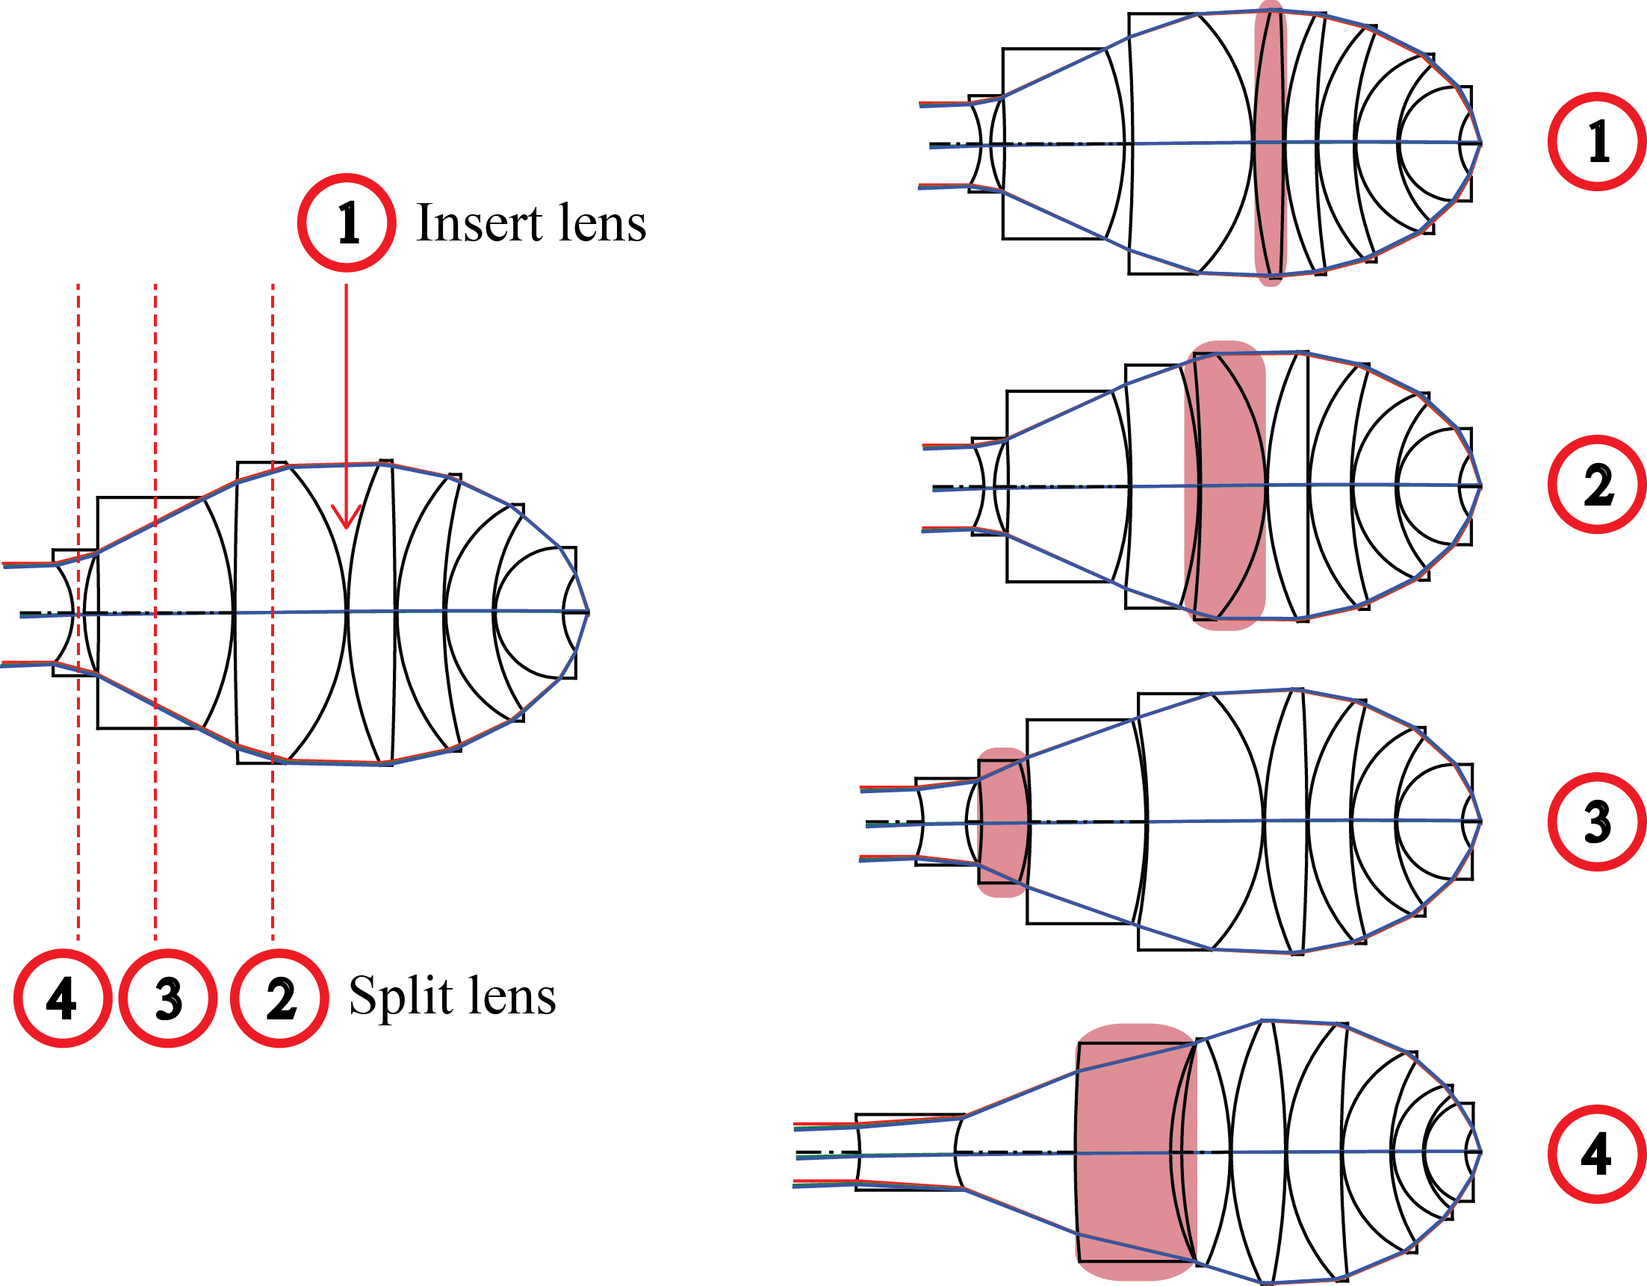
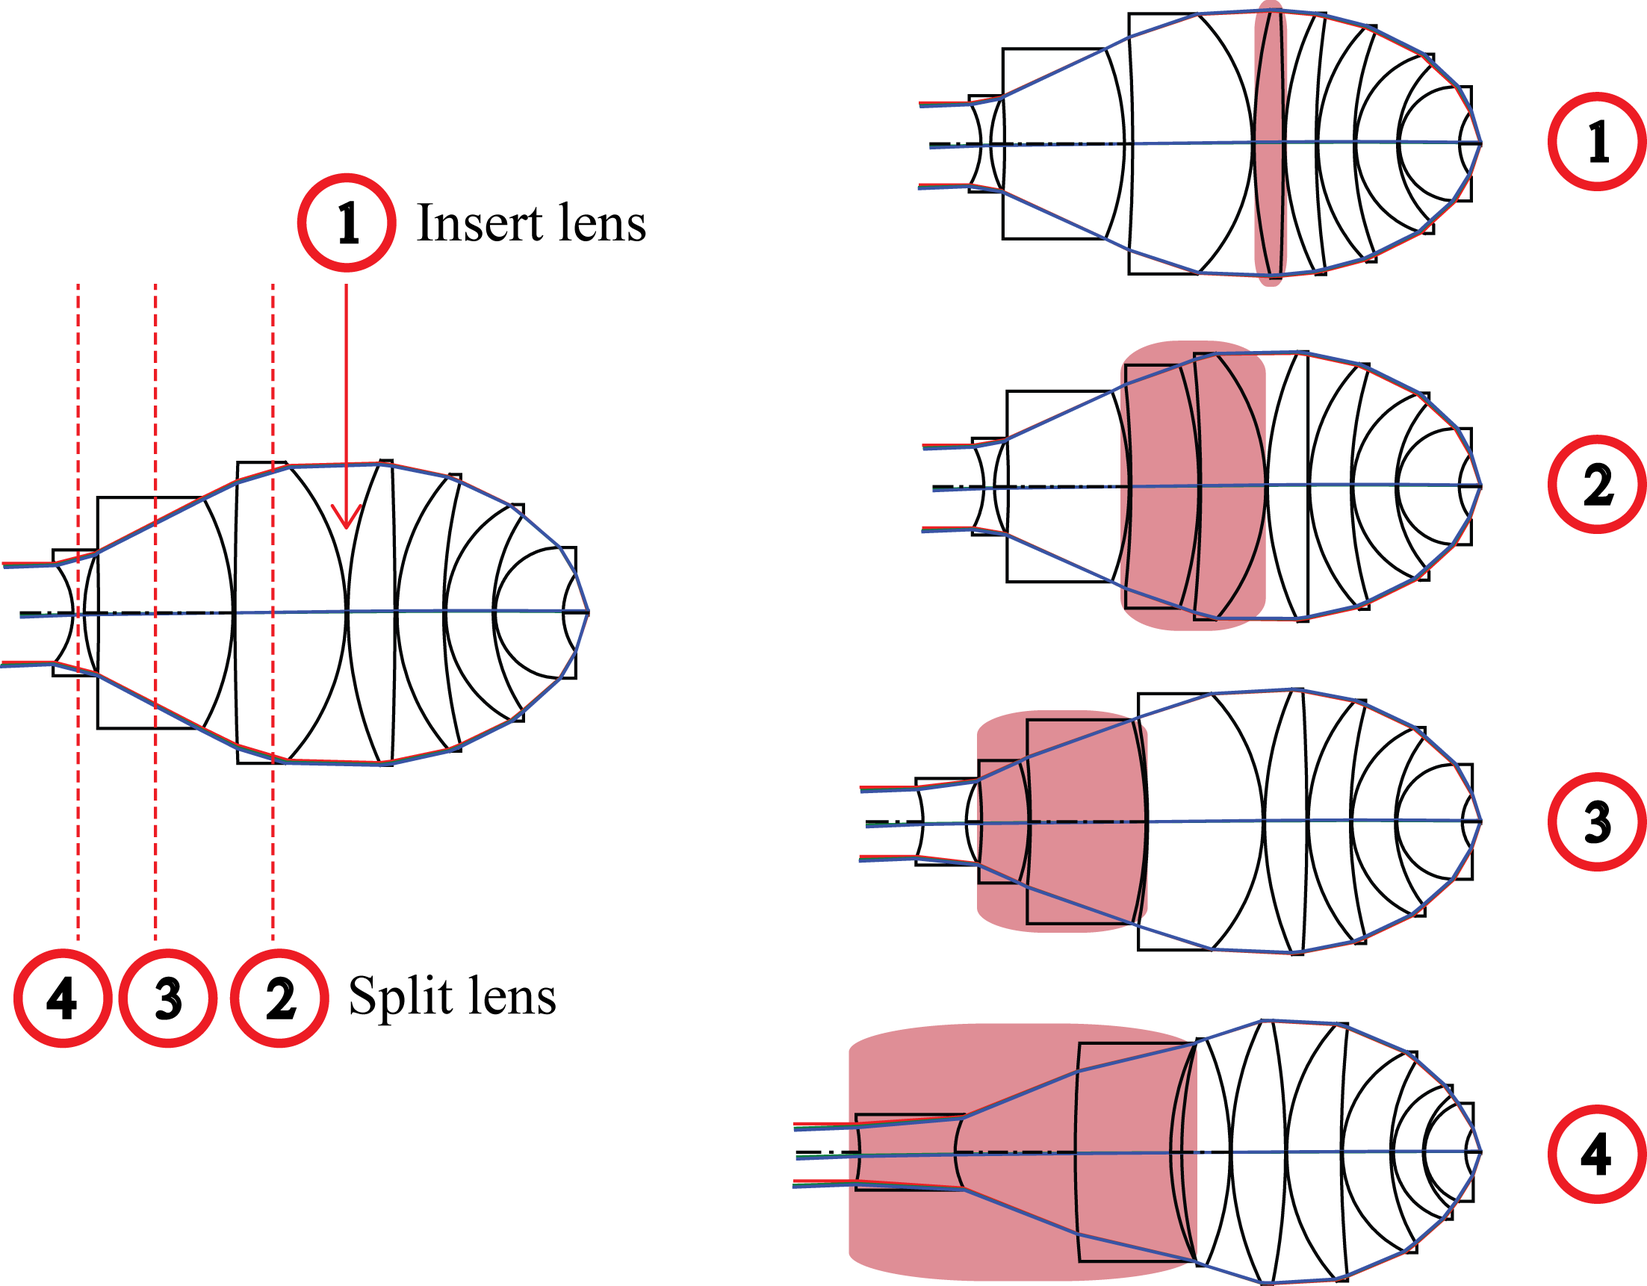
Updates from ShareLaTeX

diff --git a/chapter-4/chapter-4.tex b/chapter-4/chapter-4.tex
@@ -5,6 +5,11 @@
 \captionsetup{margin=1.5em}
 \captionsetup[table]{labelfont=bf}
 
+%%Newdefined commands
+%for circled number typing
+\newcommand*\circled[1]{\tikz[baseline=(char.base)]{
+            \node[shape=circle,draw,inner sep=0.5pt] (char) {#1};}}
+
 % The following annotation is customary for chapter which have already been
 % published as a paper.
 % \blfootnote{Parts of this chapter have been published in Annalen der Physik \textbf{324}, 289 (1906) \cite{LinWang2011}.}
@@ -187,7 +192,7 @@ Working together with a designer in Jena, we have chosen a UV microscope objecti
     Working distance (WD, mm) & 0.6\\ 
     Overall length (mm) & 25\\
     \midrule
-    RMS wave front error (m$\lambda$) & 48.5\\ 
+    RMS wave front error (m$\lambda$) & 49\\ 
     Strehl ratio at 0 mm & 0.976\\ 
     Strehl ratio at 0.1mm & 0.849\\
     \hline
@@ -320,19 +325,19 @@ We increased the NA of the microscope objective from 0.90 to 0.95. The rays stil
     \hline 
      Numerical aperture (NA) & 0.90 & 0.95\\ 
      \cmidrule{2-3}
-    RMS wavefront error (m$\lambda$) & 48.5 & 111  \\ 
+    RMS wavefront error (m$\lambda$) & 49 & 111  \\ 
     Strehl ratio at 0 mm & 0.976 & 0.833\\
     Strehl ratio at 0.1 mm & 0.849 & 0.386\\
     \hline
     \end{tabular}
 \end{table}
 
-With the separation of the system into different function groups, it is possible to understand the function of different part of the system, and provides insight when structural change is needed. From Figure \ref{fig: vollrathoriginal} we know that the rear and middle group mainly correct the spherical aberration. A reasonable strategy is then to introduce structural changes in these two groups, namely by adding or splitting elements in the rear or middle group of the system. Based on this insight, we chose four different positions in the rear and middle group to add or split element in a conventional way. The resulted system shapes are shown in Figure \ref{fig: vollrathNAtrad}. It is worth pointing out that with traditional approach, each operation only yields one solution. The performance of the resulting systems are listed in Table \ref{table: vollrathNAtrad}. From the table, we see that out of four, only one has a satisfactory performance \footnote{For satisfactory performance, the criteria is that the Strehl ratio is above 0.8 for all fields, and \colorbox{orange}{the wavefront RMS is below $\lambda/14$} \cite{patentvollrath}, for which the system is believed to be diffraction-limited.}. 
+With the separation of the system into different function groups, it is possible to understand the function of different part of the system, and provides insight when structural change is needed. From Figure \ref{fig: vollrathoriginal} we know that the rear and middle group mainly correct the spherical aberration. A reasonable strategy is then to introduce structural changes in these two groups, namely by adding or splitting elements in the rear or middle group of the system. Based on this insight, we chose four different positions in the rear and middle group to add or split element in a conventional way. The resulted system shapes are shown in Figure \ref{fig: vollrathNAtrad}. It is worth pointing out that with traditional approach, each operation only yields one solution. The performance of the resulting systems are listed in Table \ref{table: vollrathNAtrad}. From the table, we see that out of four, only one has a satisfactory performance \footnote{For satisfactory performance, the criteria is that the Strehl ratio is above 0.8 for all fields, and \colorbox{orange}{the wavefront RMS is below $\lambda/14$} \cite{patentvollrath}, for which the system is believed to be diffraction-limited.}. In Figure \ref{fig: vollrathNAtrad}, the inserted or split element is highlighted with shade. For operation \circled{1}, the insertion of the lens resulting an extra shell lens in the front group. It gives four new freedoms (two curvatures, one lens thickness, and an air space thickness) for optimization. However, the performance of the system is not improved to a satisfactory result. Operation \circled{2} splitting one of the lens elements in the middle group distributing its original power from one lens element to two lens elements. The same happened for operation \circled{3}. Both operations only produce slightly better results than operation \circle{1}, however, none of them is good. Splitting the lens element in the rear group in operation \circled{4} produces a different system shape compared to the other three and the original system. A reverse-bended element is created (second element from the left), and it forms a narrow air gap with the element to the right of it. This kind of air gap is effective for introducing high-order spherical aberrations, which balances the high-order spherical aberration introduced by other parts of the system \colorbox{orange}{reference needed}.
 
 \begin{figure}[h!]
     \centering
     \includegraphics[width=0.7\textwidth]{chapter-4/figures/Vollrath_NATradition.png}
-    \caption{Introducing structural change in the traditional way for system performance improvement.}
+    \caption{Introducing structural change in the traditional way for system performance improvement. Four operations have been executed on the NA 0.95 system resulting in four different results. The inserted or split element is highlighted with shade.}
     \label{fig: vollrathNAtrad}
 \end{figure}
 
@@ -360,116 +365,115 @@ With the separation of the system into different function groups, it is possible
 \end{table}
 
 
+Based on the same insight on where the change should be introduced in the system, we performed saddle point construction on the same operation positions as the traditional approach. Figure \ref{fig: VollrathSPCcaseNA} presents the results from saddle point construction scans. From four scans, a total number of eighteen solutions were obtained \footnote{\colorbox{orange}{an example of a scan will be given in the appendices}}. Besides the four solutions as same as the one obtained with traditional method, fourteen extra solutions were acquired. Their performances are listed in Table \ref{table: vollratSPCcaseNA}. Out of the eighteen solutions, nine reach satisfactory results. 
+
+\begin{figure}[h!]
+  \begin{adjustbox}{addcode={
+    \begin{minipage}{\width}}{
+    \captionsetup{margin=0em}
+    \caption{Eighteen solutions from four saddle point construction scans. The dashed line indicates constructing an air lens inside a lens element (equivalent to splitting lens). The solid line indicates constructing a glass element in the air space (equivalent to add lens). In comparison with Figure \ref{fig: vollrathNAtrad}, solution \textcircled{\scriptsize{1}}C, \textcircled{\scriptsize{2}}D, \textcircled{\scriptsize{3}}C, and \textcircled{\scriptsize{4}}D are the ones obtained with conventional approach.}\label{fig: VollrathSPCcaseNA}
+    \end{minipage}},rotate=90,center}
+    \includegraphics[width=\textheight]{chapter-4/figures/vollrathSPCcaseNA.png}
+  \end{adjustbox}
+\end{figure}
+
+\setlength{\arrayrulewidth}{.5mm}
+\setlength{\tabcolsep}{18pt}
+\renewcommand{\arraystretch}{1.2}
+\begin{table}[h!]
+    \centering
+    \captionsetup{justification=centering}
+    \caption{System performance for the systems shown in Figure \ref{fig: VollrathSPCcaseNA}}
+    \label{table: vollratSPCcaseNA}
+    \vspace{-1em}
+    % \hspace*{-10pt} %adjusting the position of the plot(table) !!!!
+    \begin{adjustbox}{max width=\textwidth, center}
+    \begin{tabular}{c c c c c c}
+    \hline 
+       & \textbf{1} & \textbf{2} & \textbf{3} & \textbf{4} & \\ 
+     \midrule
+    RMS WFR & 65 & 59 & 60 & 26 & \multirow{3}{*}{\textbf{A}} \\ 
+    SR(0) & 0.862 & 0.942 & 0.958 & 0.998\\
+    SR(0.1) & 0.829 & 0.807 & 0.808 & 0.945\\
+    \midrule
+    RMS WFR& 109 & 67 & 52 & 135 & \multirow{3}{*}{\textbf{B}} \\ 
+    SR(0) & 0.876 & 0.941 & 0.960 & 0.604\\
+    SR(0.1) & 0.378 & 0.756 & 0.847 & 0.319\\
+    \midrule
+    RMS WFR & 98 & 45 & 104 & 124 & \multirow{3}{*}{\textbf{C}} \\ 
+    SR(0) & 0.826 & 0.989 & 0.779 & 0.661\\
+    SR(0.1) & 0.505 & 0.874 & 0.540 & 0.371\\
+    \midrule
+    RMS WFR & 48 & 102 & 89 & 35 & \multirow{3}{*}{\textbf{D}} \\ 
+    SR(0) & 0.950 & 0.828 & 0.820 & 0.993\\
+    SR(0.1) & 0.859 & 0.444 & 0.625 & 0.894\\
+    \midrule
+    RMS WFR &  & 43 &  & 135 & \multirow{3}{*}{\textbf{E}} \\ 
+    SR(0) &  & 0.982 &  & 0.789\\
+    SR(0.1) &  & 0.853 &  & 0.251\\
+    \hline
+    \multicolumn{6}{c}{\textit{\footnotesize{RMS WFR = RMS wavefront error (m$\lambda$); SR(0) = Strehl ratio at 0 mm; SR(0.1) = Strehl ratio at 0.1 mm.}}}\\
+    % \vspace{-1em}
+    % \multicolumn{6}{c}{\textit{\footnotesize{SR(0) = Strehl ratio at 0 mm; SR(0.1) = Strehl ratio at 0.1 mm.}}}
+    \end{tabular}
+    \end{adjustbox}
+\end{table}
+
+Compared to traditional method, using saddle point methods find 4.5 times more systems with the same amount of operation. If we count the efficiency for finding good systems, traditional method is 25\%, and SPC is 50\%.
+
+A second structural change introduced is to increase the working distance of the original system, from 0.6 mm to 2.5 mm. 
+
+\begin{figure}[h!]
+    \centering
+    \includegraphics[width=0.6\textwidth]{chapter-4/figures/Vollrath_WD06TO25.png}
+    \caption{Change of the system shape after the increasing of the working distance from 0.6 mm to 2.5 mm.}
+    \label{fig: vollrathWD06to25}
+\end{figure}
+
+%table template
+\setlength{\arrayrulewidth}{.5mm}
+\setlength{\tabcolsep}{18pt}
+\renewcommand{\arraystretch}{1.2}
+\begin{table}[h!]
+    \centering
+    \captionsetup{justification=centering}
+    \caption{Change of the system performance with increasing working distance}
+    \label{table: WDchange}
+    \vspace{-1em}
+    \begin{tabular}{ c c c }
+    \hline 
+     Working distance (WD, mm) & 0.6 & 2.5\\ 
+     \cmidrule{2-3}
+    RMS wavefront error (m$\lambda$) & 49 & 135  \\ 
+    Strehl ratio at 0 mm & 0.976 & 0.254\\
+    Strehl ratio at 0.1 mm & 0.849 & 0.019\\
+    \hline
+    \end{tabular}
+\end{table}
+
+
+
+
+
+
+
+
+\subsection{How to do the scan}
+\begin{itemize}
+\item computation 4 point
+\item optimization enough loops
+\item choice of weigths and constraint
+\end{itemize}
+
+
 \section{Applying SPC to a lithographic object (extreme complex case)}
 
 
-%% We need an empty line before the quote environment to work around a bug in
-%% the lettrine package, from which the drop command is derived.
-\begin{quote}
-\texttt{\textbackslash documentclass\{dissertation\}}
-\end{quote}
-which loads the dissertation template. The template is based on the \LaTeX{} \texttt{book} document class and stored in \texttt{dissertation.cls}. The document class accepts several comma-separated options. By default, hyperlinks are shown in cyan, which is convenient when reading the dissertation on a computer, but can be expensive when printing. They can be turned black with the \texttt{print} option. This will also turn the headers dark gray instead of cyan. Moreover, it will add a 3~mm bleed around the page including crop marks. This will help the printer with the thumb indices, since they run right up to the page borders. Finally, the \texttt{nativefonts} option can be used to override the automatic font selection (see below).
+\section{conclusion}
 
-A dissertation is a big document, which makes it easy to miss warnings about the layout in the \LaTeX{} output. In order to locate problem areas, add the \texttt{draft} option to the \texttt{\textbackslash documentclass} line. This will display a vertical bar in the margins next to the paragraphs that require attention.
+The saddle point construction introduces a disruption for the optimization with a certain amount of control. Instead of starting randomly in the optimization landscape intending to find a different local minimum, with saddle point construction, we are able to start from some space that there will be a higher chance of converging to a different local minima. 
 
-The contents of the dissertation are included between the \texttt{\textbackslash begin\{document\}} and \texttt{\textbackslash end\{document\}} commands, and split into three parts by
-\begin{enumerate}
-\item\texttt{\textbackslash frontmatter}, which uses Roman numerals for the page numbers and is used for the title page and the table of contents;
-\item\texttt{\textbackslash mainmatter}, which uses Arabic numerals for the page numbers and is the style for the chapters;
-\item\texttt{\textbackslash appendix}, which uses letters for the chapter numbers, starting with `A'.
-\end{enumerate}
-The title page is defined in \texttt{title.tex} in the \texttt{title} folder and included verbatim with \texttt{\textbackslash include\{title/title\}},\footnote{Note that it is not necessary to specify the file extension.} (see below). Additionally, it is possible to include a preface, containing, for example, the acknowledgements. An example can be found in \texttt{preface.tex}. The table of contents is generated automatically with the \texttt{\textbackslash tableofcontents} command. Chapters are included after \texttt{\textbackslash mainmatter} and appendices after \texttt{\textbackslash appendix}. For example, \texttt{\textbackslash include\{chapter-1/chapter-1\}} includes \texttt{chapter-1.tex}, which contains this introduction.
-
-\section{Title Page}
-
-\dropcap{T}{he} title pages are defined in \texttt{title/title.tex}, which you will have to modify according to your needs. Note that these pages are subject to the requirements of the \emph{promotieregelement} and cannot be changed at will. Apart from the names and dates, most of the Dutch text is dictated literally.
-
-Since the thesis title and name of the author appear several times throughout the document (on the title page, but also in, \emph{e.g.}, the preface and cv), special commands are provided so they only have to be specified once. The title (and optional subtitle) can be specified with
-
-\begin{quote}
-\texttt{\textbackslash title[Optional subtitle]\{Title\}}
-\end{quote}
-The name of the author is specified with
-\begin{quote}
-\texttt{\textbackslash author\{First name\}\{Last name\}}
-\end{quote}
-Note that the first and last name are separate arguments, since they may be printed in different font shapes. The \texttt{\textbackslash title} and \texttt{\textbackslash author} commands also ensure that the title and author appear in the metadata of the final PDF.
-
-See \texttt{title/title.tex} for detailed documentation on the comment and layout of the title pages. Logos of institutes that have contributed financially to the dissertation may be included on reverse side of the title page. A few example logos can be found in the \texttt{title/logos} folder.
-
-\section{Chapters}
-
-\dropcap{E}{ach} chapter has its own file. For example, the \LaTeX{} source of this chapter can be found in \texttt{chapter-1.tex}. A chapter starts with the command
-
-\begin{quote}
-\texttt{\textbackslash chapter\{Chapter title\}}
-\end{quote}
-This starts a new page, prints the chapter number and title and adds a link in the table of contents. If the title is very long, it may be desirable to use a shorter version in the page headers and the table of contents. This can be achieved by specifying the short title in brackets:
-
-\begin{quote}
-\texttt{\textbackslash chapter[Short title]\{Very long title with many words which could not possibly fit on one line\}}
-\end{quote}
-Unnumbered chapters, such as the preface, can be created with \texttt{\textbackslash chapter*\{Chapter title\}}. Such a chapter will not show up in the table of contents or in the page header. To create a table of contents entry anyway, add
-\begin{quote}
-    \texttt{\textbackslash addcontentsline\{toc\}\{chapter\}\{Chapter title\}}
-\end{quote}
-after the \texttt{\textbackslash chapter} command. To print the chapter title in the page header, add
-\begin{quote}
-    \texttt{\textbackslash setheader\{Chapter title\}}
-\end{quote}
-
-If (parts of) the chapter have already been published elsewhere, it is customary to add a reference. This can be done with the special unnumbered footnote command \texttt{\textbackslash blfootnote}. For example,
-
-\begin{quote}
-\texttt{\textbackslash blfootnote\{Parts of this chapter have been published in Annalen der Physik \textbackslash textbf\{324\}, 289 (1906) \textbackslash cite \{Einstein1906\}.\}}
-\end{quote}
-generates the footnote at the beginning of this chapter. Because this footnote is unnumbered, the \texttt{hyperref} package may throw a warning, which safely be ignored.
-
-If multiple people have contributed significantly to this chapter, they can be lister with the \texttt{\textbackslash authors} command. This can be followed by a quotation using \texttt{\textbackslash epigraph} as shown above. Finally, it is customary for a dissertation to include an abstract for every chapter (except perhaps the introduction). This can be accomplished with the \texttt{abstract} environment. The abstract should be followed by \texttt{\textbackslash newpage} to start the chapter text on a new page.
-
-In a dissertation, each chapter has its own list of references. These can be generated with the special command \texttt{\textbackslash references\{dissertation\}} from \texttt{dissertation.bib} at the end of the chapter. Note that this means that you need to run a command like \texttt{bibtex chapter-1/chapter-1} for each chapter. The bibliography style is specified in \texttt{dissertation.bst}, which is a modified version of \texttt{apsrev4-1.bst} (from REVTeX) designed to also display the titles of referenced articles. The template will automatically generate clickable hyperlinks if a URL or DOI (digital object identifier) is present for the reference. Although it is possible to manage the bibliography by hand, we recommend using EndNote (available from Blackboard) or JabRef (available from \url{http://jabref.sourceforge.net/}).
-
-Chapters are subdivided into sections, subsections, subsubsections, and, optionally, paragraphs and subparagraphs. All can have a title, but only sections and subsections are numbered. As with chapters, the numbering can be turned off by using \texttt{\textbackslash section*\{\ldots\}} instead of \texttt{\textbackslash section\{\ldots\}}, and similarly for the subsection.
-\section{\textbackslash section\{\ldots\}}
-\subsection{\textbackslash subsection\{\ldots\}}
-\subsubsection{\textbackslash subsubsection\{\ldots\}}
-\paragraph{\textbackslash paragraph\{\ldots\}}
-Lorem ipsum dolor sit amet, consectetur adipisicing elit, sed do eiusmod tempor incididunt ut labore et dolore magna aliqua. Ut enim ad minim veniam, quis nostrud exercitation ullamco laboris nisi ut aliquip ex ea commodo consequat. Duis aute irure dolor in reprehenderit in voluptate velit esse cillum dolore eu fugiat nulla pariatur. Excepteur sint occaecat cupidatat non proident, sunt in culpa qui officia deserunt mollit anim id est laborum.
-
-\section{Fonts and Colors}
-
-\dropcap{T}{he} fonts used by this template depend on which version of \LaTeX{} you use. Regular \LaTeX, \emph{i.e.}, if you compile your document with with \texttt{latex}, \texttt{pslatex} or \texttt{pdflatex}, will use Utopia for text, Fourier for math and Latin Modern for sans-serif and monospaced text. However, if you want to adhere to the TU Delft house style, you will need to use \XeLaTeX, as it supports TrueType and OpenType fonts. Compiling with \texttt{xelatex} will use Bookman Old Style for titles, Tahoma for text, Courier New for monospace and Cambria for math. If you want to use \XeLaTeX, but do not want to use the TU Delft house style fonts, you can add the \texttt{nativefonts} option to the document class.
-
-This template supports the use of drop caps, a large colored initial at the beginning of a chapter or section, via the \texttt{\textbackslash dropcap} command:
-
-\begin{quote}
-\texttt{\textbackslash dropcap\{L\}\{orem\} ipsum\ldots}
-\end{quote}
-The first argument is the capital that will be printed on two lines (in the title color), and the second argument is the rest of the word. Depending on the font, the latter may be printed in small caps.
-
-The corporate colors of the TU Delft are cyan, black and white, available, respectively, via \texttt{\textbackslash color\{{\color{tudelft-cyan}tudelft-cyan}\}}, \texttt{\textbackslash color\{{\color{tudelft-black}tudelft-black}\}} (which differs slightly from the default \texttt{black}) and \texttt{\textbackslash color\{tudelft-white\}}. Apart from these three, the house style defines the basic colors
-\begin{itemize}
-%% Reduce the separation between the items, since this is just a list of words.
-\itemsep 0pt
-\parskip 0pt
-\item\texttt{\color{tudelft-sea-green}tudelft-sea-green},
-\item\texttt{\color{tudelft-green}tudelft-green},
-\item\texttt{\color{tudelft-dark-blue}tudelft-dark-blue},
-\item\texttt{\color{tudelft-purple}tudelft-purple},
-\item\texttt{\color{tudelft-turquoise}tudelft-turquoise} and
-\item\texttt{\color{tudelft-sky-blue}tudelft-sky-blue},
-\end{itemize}
-as well as the accent colors
-\begin{itemize}
-\itemsep 0pt
-\parskip 0pt
-\item\texttt{\color{tudelft-lavendel}tudelft-lavendel},
-\item\texttt{\color{tudelft-orange}tudelft-orange},
-\item\texttt{\color{tudelft-warm-purple}tudelft-warm-purple},
-\item\texttt{\color{tudelft-fuchsia}tudelft-fuchsia},
-\item\texttt{\color{tudelft-bright-green}tudelft-bright-green} and
-\item\texttt{\color{tudelft-yellow}tudelft-yellow}.
-\end{itemize}
+SPC is very effective on obtaining solutions with different bendings. 
 
 \references{dissertation}
 
